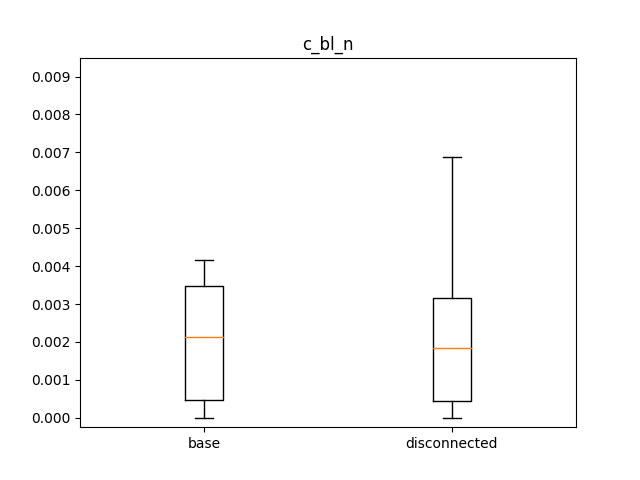
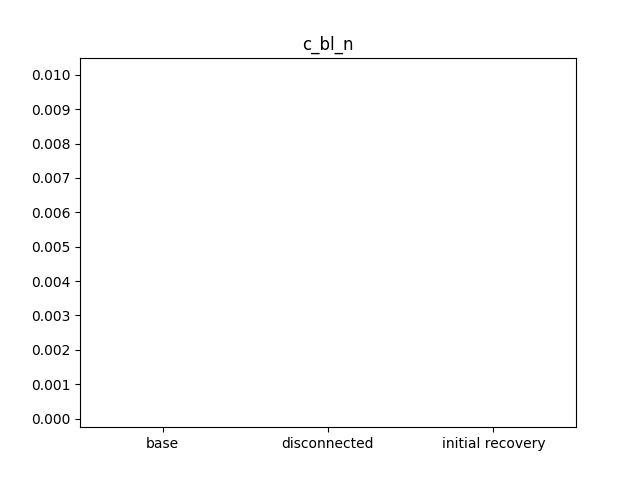
update

diff --git a/graph.py b/graph.py
@@ -14,8 +14,8 @@ import _hits
 import matplotlib.pyplot as plt
 from scipy.stats import ks_2samp, describe
 
-CORES = 5
-ITERATIONS = 30
+CORES = 14
+ITERATIONS = 15
 NUMBER_OF_AGENTS = 50
 ROUNDS = 100
 ACTIVATION = 0.1
@@ -61,9 +61,9 @@ def get_active_agents(agents):
     return result
 
 
-def generate(chats, agents):
+def generate(chats, agents, rounds=ROUNDS):
     result = {}
-    for iround in range(ROUNDS):
+    for iround in range(rounds):
         result[iround] = []
         agents_active = get_active_agents(agents)
         for i in range(len(agents_active)):
@@ -97,6 +97,9 @@ def add_node_to_graph(agent_id, node_id, chats, agents, graph, graph_transitive)
     for r in range(len_ref):
         ref = cp_ref[r]
         trefs = graph_transitive.get(ref)
+        if trefs is None:
+            graph_transitive[ref] = List.empty_list(int64)
+            trefs = graph_transitive.get(ref)
         for t in trefs:
             if t in references:
                 references.remove(t)
@@ -112,11 +115,10 @@ def add_node_to_graph(agent_id, node_id, chats, agents, graph, graph_transitive)
                 references.append(t)
     graph_transitive[node_id] = references
 
-
 # @njit(nogil=True)
-def run(game, chats, agents, graph, graph_transitive, node_chat, node_agent):
-    for iround in range(ROUNDS):
-        base_node_id = len(graph)  # then just + chad_id gives unique id
+def run(game, chats, agents, graph, graph_transitive, node_chat, node_agent, rounds=ROUNDS):
+    for iround in range(rounds):
+        base_node_id = max(graph, key=int) + 1 # len(graph)  # then just + chad_id gives unique id
         # agents_active = get_active_agents(agents)
         agents_active = game[iround]
         # # print(agents_active)
@@ -146,7 +148,6 @@ def run(game, chats, agents, graph, graph_transitive, node_chat, node_agent):
                     break
             chats[chat_id].current_nodes.append(node_id)
 
-
 @njit(nogil=True)
 def to_adj_matrix(graph, M):
     for i in prange(len(graph)):
@@ -154,12 +155,26 @@ def to_adj_matrix(graph, M):
             j = graph[i][k]
             M[i, j] = True
 
+# to adj list
+def from_adj_matrix(M):
+    result = Dict.empty(int64, ListType(int64))
+    n,m = M.shape
+    for i in prange(n):
+        if result.get(i) is None:
+            result[i] = List.empty_list(int64)
+        for j in prange(m):
+            if not M[i,j]:
+                continue
+            result[i].append(j)
+    return result
+
 
 def run_game(game, chats, agents, with_app_links=True, conf=True):
-    # global lock_c_bl_n_auth_base, lock_c_bl_n_auth_dc, lock_c_bl_nn_auth_base, lock_c_bl_nn_auth_dc, lock_c_sl_n_auth_base, lock_c_sl_n_auth_dc, lock_c_sl_nn_auth_base, lock_c_sl_nn_auth_dc
-    # global lock_t_bl_n_auth_base, lock_t_bl_n_auth_dc, lock_t_bl_nn_auth_base, lock_t_bl_nn_auth_dc, lock_t_sl_n_auth_base, lock_t_sl_n_auth_dc, lock_t_sl_nn_auth_base, lock_t_sl_nn_auth_dc
     global c_bl_n_auth_base, c_bl_n_auth_dc, c_sl_n_auth_base, c_sl_n_auth_dc, t_bl_n_auth_base, t_bl_n_auth_dc, t_sl_n_auth_base, t_sl_n_auth_dc
     global c_bl_nn_auth_base, c_bl_nn_auth_dc, c_sl_nn_auth_base, c_sl_nn_auth_dc, t_bl_nn_auth_base, t_bl_nn_auth_dc, t_sl_nn_auth_base, t_sl_nn_auth_dc
+    global c_bl_n_auth_rec, c_bl_nn_auth_rec, c_sl_n_auth_rec, c_sl_nn_auth_rec, t_bl_n_auth_rec, t_bl_nn_auth_rec, t_sl_n_auth_rec, t_sl_nn_auth_rec
+    global c_bl_n_auth_rec_long, c_bl_nn_auth_rec_long, c_sl_n_auth_rec_long, c_sl_nn_auth_rec_long, t_bl_n_auth_rec_long, t_bl_nn_auth_rec_long, t_sl_n_auth_rec_long, t_sl_nn_auth_rec_long
+    
     # print("App Links:",with_app_links)
     # print()
     for chat in chats:
@@ -188,8 +203,8 @@ def run_game(game, chats, agents, with_app_links=True, conf=True):
 
     try:
         # print("Normalized")
-        auth_base_n, auth_dc_n, auth_base_nn, auth_dc_nn = break_target(
-            M.copy(), node_agent, agents)
+        auth_base_n, auth_dc_n, auth_base_nn, auth_dc_nn, auth_rec_n, auth_rec_nn, auth_rec_long_n, auth_rec_long_nn = break_target(
+            M.copy(), node_agent, agents, chats, node_chat )
         # print()
         # print("Not Normalized")
         # auth_base_nn, auth_dc_nn = break_target(
@@ -199,38 +214,54 @@ def run_game(game, chats, agents, with_app_links=True, conf=True):
             if with_app_links:
                 c_bl_n_auth_base.put(auth_base_n)
                 c_bl_n_auth_dc.put(auth_dc_n)
+                c_bl_n_auth_rec.put(auth_rec_n)
+                c_bl_n_auth_rec_long.put(auth_rec_long_n)
                 c_bl_nn_auth_base.put(auth_base_nn)
                 c_bl_nn_auth_dc.put(auth_dc_nn)
+                c_bl_nn_auth_rec.put(auth_rec_nn)
+                c_bl_nn_auth_rec_long.put(auth_rec_long_nn)
             else:
                 c_sl_n_auth_base.put(auth_base_n)
                 c_sl_n_auth_dc.put(auth_dc_n)
+                c_sl_n_auth_rec.put(auth_rec_n)
+                c_sl_n_auth_rec_long.put(auth_rec_long_n)
                 c_sl_nn_auth_base.put(auth_base_nn)
                 c_sl_nn_auth_dc.put(auth_dc_nn)
+                c_sl_nn_auth_rec.put(auth_rec_nn)
+                c_sl_nn_auth_rec_long.put(auth_rec_long_nn)
         else:
             if with_app_links:
                 t_bl_n_auth_base.put(auth_base_n)
                 t_bl_n_auth_dc.put(auth_dc_n)
+                t_bl_n_auth_rec.put(auth_rec_n)
+                t_bl_n_auth_rec_long.put(auth_rec_long_n)
                 t_bl_nn_auth_base.put(auth_base_nn)
                 t_bl_nn_auth_dc.put(auth_dc_nn)
+                t_bl_nn_auth_rec.put(auth_rec_nn)
+                t_bl_nn_auth_rec_long.put(auth_rec_long_nn)
             else:
                 t_sl_n_auth_base.put(auth_base_n)
                 t_sl_n_auth_dc.put(auth_dc_n)
+                t_sl_n_auth_rec.put(auth_rec_n)
+                t_sl_n_auth_rec_long.put(auth_rec_long_n)
                 t_sl_nn_auth_base.put(auth_base_nn)
                 t_sl_nn_auth_dc.put(auth_dc_nn)
+                t_sl_nn_auth_rec.put(auth_rec_nn)
+                t_sl_nn_auth_rec_long.put(auth_rec_long_nn)
     except Exception as err:
         print("Exception occured:", err)
     # print()
     # return M
 
 
-def break_target(A, node_agent, agents, norm=False):
+def break_target(A, node_agent, agents, chats, node_chat):
     # print(A.shape)
     k = 1
     M = A.copy()
     G_n = nx.from_numpy_matrix(M, create_using=nx.DiGraph)
     G_t = nx.transitive_closure(G_n)
     M_t = nx.to_numpy_array(G_t, dtype=np.float64)
-    auth_base_nn = _hits.hits_authorities(M_t, normalized=norm)
+    auth_base_nn = _hits.hits_authorities(M_t, normalized=False)
     while True:
         G_n = nx.from_numpy_matrix(M, create_using=nx.DiGraph)
         stats = nx.betweenness_centrality(G_n)
@@ -251,14 +282,55 @@ def break_target(A, node_agent, agents, norm=False):
                 M_ts = nx.to_numpy_array(G_ts, dtype=np.float64)
                 next_index = auth_dc_index + len(G_s.nodes())
                 auth_dc_nn[auth_dc_index:next_index] = _hits.hits_authorities(
-                    M_ts, normalized=norm)
+                    M_ts, normalized=False)
                 auth_dc_index = next_index
             # normalizing
             auth_base_n = auth_base_nn / auth_base_nn.sum()
             auth_dc_n = auth_dc_nn / auth_dc_nn.sum()
-            # a = a / a.sum()
-            return auth_base_n, auth_dc_n, auth_base_nn, auth_dc_nn
+            # recovery
+            auth_rec_n, auth_rec_nn, auth_rec_long_n, auth_rec_long_nn = recover(chats, agents, node_chat, node_agent, G_n)
+            return auth_base_n, auth_dc_n, auth_base_nn, auth_dc_nn, auth_rec_n, auth_rec_nn, auth_rec_long_n, auth_rec_long_nn
         k += 1
+
+def recover(chats, agents, node_chat, node_agent, G):
+    nodes = list(G.nodes())
+    index = max(nodes)+1
+    G_old = G.copy()
+    
+    for agent_id in range(len(agents)):
+        G.add_node(index+agent_id)    
+        for node in nodes:
+            if G_old.in_degree(node) == 0 and node_chat[node] in agents[agent_id].chats:
+                G.add_edge(index+agent_id, node)
+                node_chat[index+agent_id] = node_chat[node]
+                node_agent[index+agent_id] = agent_id
+                # chats[node_chat[node]].current_nodes.append(index+agent_id)
+
+    # print(nx.is_connected(G.to_undirected()), index, [n for n in range(max(G.nodes())) if not n in G.nodes()])
+    G_t = nx.transitive_closure(G)
+    M = nx.to_numpy_array(G, dtype=np.float64)
+    M_t = nx.to_numpy_array(G_t, dtype=np.float64)
+
+    auth_rec_nn =_hits.hits_authorities(M_t, normalized=False)
+    auth_rec_n = auth_rec_nn / auth_rec_nn.sum()
+
+    # rec_game = generate(chats,agents,rounds=10)
+    # rec_graph = from_adj_matrix(M)
+    # rec_graph_transitive = from_adj_matrix(M_t)
+    # run(rec_game, chats, agents, rec_graph, rec_graph_transitive, node_chat, node_agent, rounds=10)
+    # size = max(rec_graph, key=int)
+    # M = np.zeros((size,size), dtype=np.float64)
+    # to_adj_matrix(rec_graph, M)
+    # G_n = nx.from_numpy_matrix(M, create_using=nx.DiGraph)
+    # G_t = nx.transitive_closure(G_n)
+    # M_t = nx.to_numpy_array(G_t, dtype=np.float64)
+
+    # auth_rec_long_nn =_hits.hits_authorities(M_t, normalized=False)
+    # auth_rec_long_n = auth_rec_long_nn / auth_rec_long_nn.sum()
+    auth_rec_long_nn = []
+    auth_rec_long_n = []
+
+    return auth_rec_n, auth_rec_nn, auth_rec_long_n, auth_rec_long_nn
 
 
 def sim(its):
@@ -332,11 +404,14 @@ def get_box_plot_data(labels, bp):
 def add_plot(data, title):
     fig, ax = plt.subplots()
     if title[-2:] == '_n':
-        ax.set_ylim(-0.00025, 0.0095)
+        ax.set_ylim(-0.00025,  0.0105) # 0.0235) #
         ax.set_yticks([0, 0.001, 0.002, 0.003, 0.004,
-                       0.005, 0.006, 0.007, 0.008, 0.009])
+                       0.005, 0.006, 0.007, 0.008, 0.009, 0.010, 
+                    #    0.011, 0.012, 0.013, 0.014,
+                    #    0.015, 0.016, 0.017, 0.018, 0.019, 0.020, 0.021, 0.022, 0.023 
+                       ])
     ax.set_title(title)
-    labels = ['base', 'disconnected']
+    labels = ['base', 'disconnected', 'initial recovery' ] #, 'long term evolution']
     bp = ax.boxplot(data, labels=labels, showfliers=False)
     plt.savefig(f'./img/{title}.png')
     # print(np.median(data[0]), np.median(data[1]))
@@ -348,10 +423,12 @@ def add_plot(data, title):
     print()
 
 
-def init(a0, a1, a2, a3, a4, a5, a6, a7, a8, a9, a10, a11, a12, a13, a14, a15):
+def init(a0, a1, a2, a3, a4, a5, a6, a7, a8, a9, a10, a11, a12, a13, a14, a15, r0, r1, r2, r3, r4, r5, r6, r7, r8,r9,r10,r11,r12,r13,r14,r15):
     global c_bl_n_auth_base, c_bl_n_auth_dc, c_sl_n_auth_base, c_sl_n_auth_dc, t_bl_n_auth_base, t_bl_n_auth_dc, t_sl_n_auth_base, t_sl_n_auth_dc
     global c_bl_nn_auth_base, c_bl_nn_auth_dc, c_sl_nn_auth_base, c_sl_nn_auth_dc, t_bl_nn_auth_base, t_bl_nn_auth_dc, t_sl_nn_auth_base, t_sl_nn_auth_dc
-
+    global c_bl_n_auth_rec, c_bl_nn_auth_rec, c_sl_n_auth_rec, c_sl_nn_auth_rec, t_bl_n_auth_rec, t_bl_nn_auth_rec, t_sl_n_auth_rec, t_sl_nn_auth_rec
+    global c_bl_n_auth_rec_long, c_bl_nn_auth_rec_long, c_sl_n_auth_rec_long, c_sl_nn_auth_rec_long, t_bl_n_auth_rec_long, t_bl_nn_auth_rec_long, t_sl_n_auth_rec_long, t_sl_nn_auth_rec_long
+    
     c_bl_n_auth_base = a0
     c_bl_n_auth_dc = a1
     c_bl_nn_auth_base = a2
@@ -368,6 +445,22 @@ def init(a0, a1, a2, a3, a4, a5, a6, a7, a8, a9, a10, a11, a12, a13, a14, a15):
     t_sl_n_auth_dc = a13
     t_sl_nn_auth_base = a14
     t_sl_nn_auth_dc = a15
+    c_bl_n_auth_rec = r0
+    c_bl_nn_auth_rec = r1
+    c_sl_n_auth_rec = r2
+    c_sl_nn_auth_rec = r3
+    t_bl_n_auth_rec = r4
+    t_bl_nn_auth_rec = r5
+    t_sl_n_auth_rec = r6
+    t_sl_nn_auth_rec = r7
+    c_bl_n_auth_rec_long = r8
+    c_bl_nn_auth_rec_long = r9
+    c_sl_n_auth_rec_long = r10
+    c_sl_nn_auth_rec_long = r11
+    t_bl_n_auth_rec_long = r12
+    t_bl_nn_auth_rec_long = r13
+    t_sl_n_auth_rec_long = r14
+    t_sl_nn_auth_rec_long = r15
 
 
 def extract(queue):
@@ -397,10 +490,27 @@ if __name__ == "__main__":
     t_sl_n_auth_dc = mp.Queue()
     t_sl_nn_auth_base = mp.Queue()
     t_sl_nn_auth_dc = mp.Queue()
+    c_bl_n_auth_rec = mp.Queue()
+    c_bl_nn_auth_rec = mp.Queue()
+    c_sl_n_auth_rec = mp.Queue()
+    c_sl_nn_auth_rec = mp.Queue()
+    t_bl_n_auth_rec = mp.Queue()
+    t_bl_nn_auth_rec = mp.Queue()
+    t_sl_n_auth_rec = mp.Queue()
+    t_sl_nn_auth_rec = mp.Queue()
+    c_bl_n_auth_rec_long = mp.Queue()
+    c_bl_nn_auth_rec_long = mp.Queue()
+    c_sl_n_auth_rec_long = mp.Queue()
+    c_sl_nn_auth_rec_long = mp.Queue()
+    t_bl_n_auth_rec_long = mp.Queue()
+    t_bl_nn_auth_rec_long = mp.Queue()
+    t_sl_n_auth_rec_long = mp.Queue()
+    t_sl_nn_auth_rec_long = mp.Queue()
+
 
     iteration_ids = range(0, ITERATIONS)
     pool = mp.Pool(processes=CORES, initializer=init, initargs=(
-        c_bl_n_auth_base, c_bl_n_auth_dc, c_bl_nn_auth_base, c_bl_nn_auth_dc, c_sl_n_auth_base, c_sl_n_auth_dc, c_sl_nn_auth_base, c_sl_nn_auth_dc, t_bl_n_auth_base, t_bl_n_auth_dc, t_bl_nn_auth_base, t_bl_nn_auth_dc, t_sl_n_auth_base, t_sl_n_auth_dc, t_sl_nn_auth_base, t_sl_nn_auth_dc, )
+        c_bl_n_auth_base, c_bl_n_auth_dc, c_bl_nn_auth_base, c_bl_nn_auth_dc, c_sl_n_auth_base, c_sl_n_auth_dc, c_sl_nn_auth_base, c_sl_nn_auth_dc, t_bl_n_auth_base, t_bl_n_auth_dc, t_bl_nn_auth_base, t_bl_nn_auth_dc, t_sl_n_auth_base, t_sl_n_auth_dc, t_sl_nn_auth_base, t_sl_nn_auth_dc, c_bl_n_auth_rec, c_bl_nn_auth_rec, c_sl_n_auth_rec, c_sl_nn_auth_rec, t_bl_n_auth_rec, t_bl_nn_auth_rec, t_sl_n_auth_rec, t_sl_nn_auth_rec,  c_bl_n_auth_rec_long, c_bl_nn_auth_rec_long, c_sl_n_auth_rec_long, c_sl_nn_auth_rec_long, t_bl_n_auth_rec_long, t_bl_nn_auth_rec_long, t_sl_n_auth_rec_long, t_sl_nn_auth_rec_long, )
     )
     results = pool.map(sim, iteration_ids)
     pool.terminate()
@@ -423,30 +533,46 @@ if __name__ == "__main__":
     t_sl_n_auth_dc = extract(t_sl_n_auth_dc)
     t_sl_nn_auth_base = extract(t_sl_nn_auth_base)
     t_sl_nn_auth_dc = extract(t_sl_nn_auth_dc)
+    c_bl_n_auth_rec = extract(c_bl_n_auth_rec)
+    c_bl_nn_auth_rec = extract(c_bl_nn_auth_rec)
+    c_sl_n_auth_rec = extract(c_sl_n_auth_rec)
+    c_sl_nn_auth_rec = extract(c_sl_nn_auth_rec)
+    t_bl_n_auth_rec = extract(t_bl_n_auth_rec)
+    t_bl_nn_auth_rec = extract(t_bl_nn_auth_rec)
+    t_sl_n_auth_rec = extract(t_sl_n_auth_rec)
+    t_sl_nn_auth_rec = extract(t_sl_nn_auth_rec)
+    c_bl_n_auth_rec_long = extract(c_bl_n_auth_rec_long)
+    c_bl_nn_auth_rec_long = extract(c_bl_nn_auth_rec_long)
+    c_sl_n_auth_rec_long = extract(c_sl_n_auth_rec_long)
+    c_sl_nn_auth_rec_long = extract(c_sl_nn_auth_rec_long)
+    t_bl_n_auth_rec_long = extract(t_bl_n_auth_rec_long)
+    t_bl_nn_auth_rec_long = extract(t_bl_nn_auth_rec_long)
+    t_sl_n_auth_rec_long = extract(t_sl_n_auth_rec_long)
+    t_sl_nn_auth_rec_long = extract(t_sl_nn_auth_rec_long)
 
     # print("c_bl_n")
-    add_plot([c_bl_n_auth_base, c_bl_n_auth_dc], "c_bl_n")
+    add_plot([c_bl_n_auth_base, c_bl_n_auth_dc, c_bl_n_auth_rec ], "c_bl_n")# c_bl_n_auth_rec_long], "c_bl_n")
     # print()
     # print("c_bl_nn")
-    add_plot([c_bl_nn_auth_base, c_bl_nn_auth_dc], "c_bl_nn")
+    add_plot([c_bl_nn_auth_base, c_bl_nn_auth_dc, c_bl_nn_auth_rec ], "c_bl_nn")# c_bl_nn_auth_rec_long], "c_bl_nn")
     # print()
     # print("c_sl_n")
-    add_plot([c_sl_n_auth_base, c_sl_n_auth_dc], "c_sl_n")
+    add_plot([c_sl_n_auth_base, c_sl_n_auth_dc, c_sl_n_auth_rec ], "c_sl_n")# c_sl_n_auth_rec_long], "c_sl_n")
     # print()
     # print("c_sl_nn")
-    add_plot([c_sl_nn_auth_base, c_sl_nn_auth_dc], "c_sl_nn")
+    add_plot([c_sl_nn_auth_base, c_sl_nn_auth_dc, c_sl_nn_auth_rec ], "c_sl_nn")# c_sl_nn_auth_rec_long], "c_sl_nn")
     # print()
     # print("t_bl_n")
-    add_plot([t_bl_n_auth_base, t_bl_n_auth_dc], "t_bl_n")
+    add_plot([t_bl_n_auth_base, t_bl_n_auth_dc, t_bl_n_auth_rec ], "t_bl_n")# t_bl_n_auth_rec_long], "t_bl_n")
     # print()
     # print("t_bl_nn")
-    add_plot([t_bl_nn_auth_base, t_bl_nn_auth_dc], "t_bl_nn")
+    add_plot([t_bl_nn_auth_base, t_bl_nn_auth_dc, t_bl_nn_auth_rec ], "t_bl_nn")# t_bl_nn_auth_rec_long], "t_bl_nn")
     # print()
     # print("t_sl_n")
-    add_plot([t_sl_n_auth_base, t_sl_n_auth_dc], "t_sl_n")
+    add_plot([t_sl_n_auth_base, t_sl_n_auth_dc, t_sl_n_auth_rec ], "t_sl_n")# t_sl_n_auth_rec_long], "t_sl_n")
     # print()
     # print("t_sl_nn")
-    add_plot([t_sl_nn_auth_base, t_sl_nn_auth_dc], "t_sl_nn")
+    add_plot([t_sl_nn_auth_base, t_sl_nn_auth_dc, t_sl_nn_auth_rec ], "t_sl_nn")# t_sl_nn_auth_rec_long], "t_sl_nn")
     # print()
 
     # plt.show()
